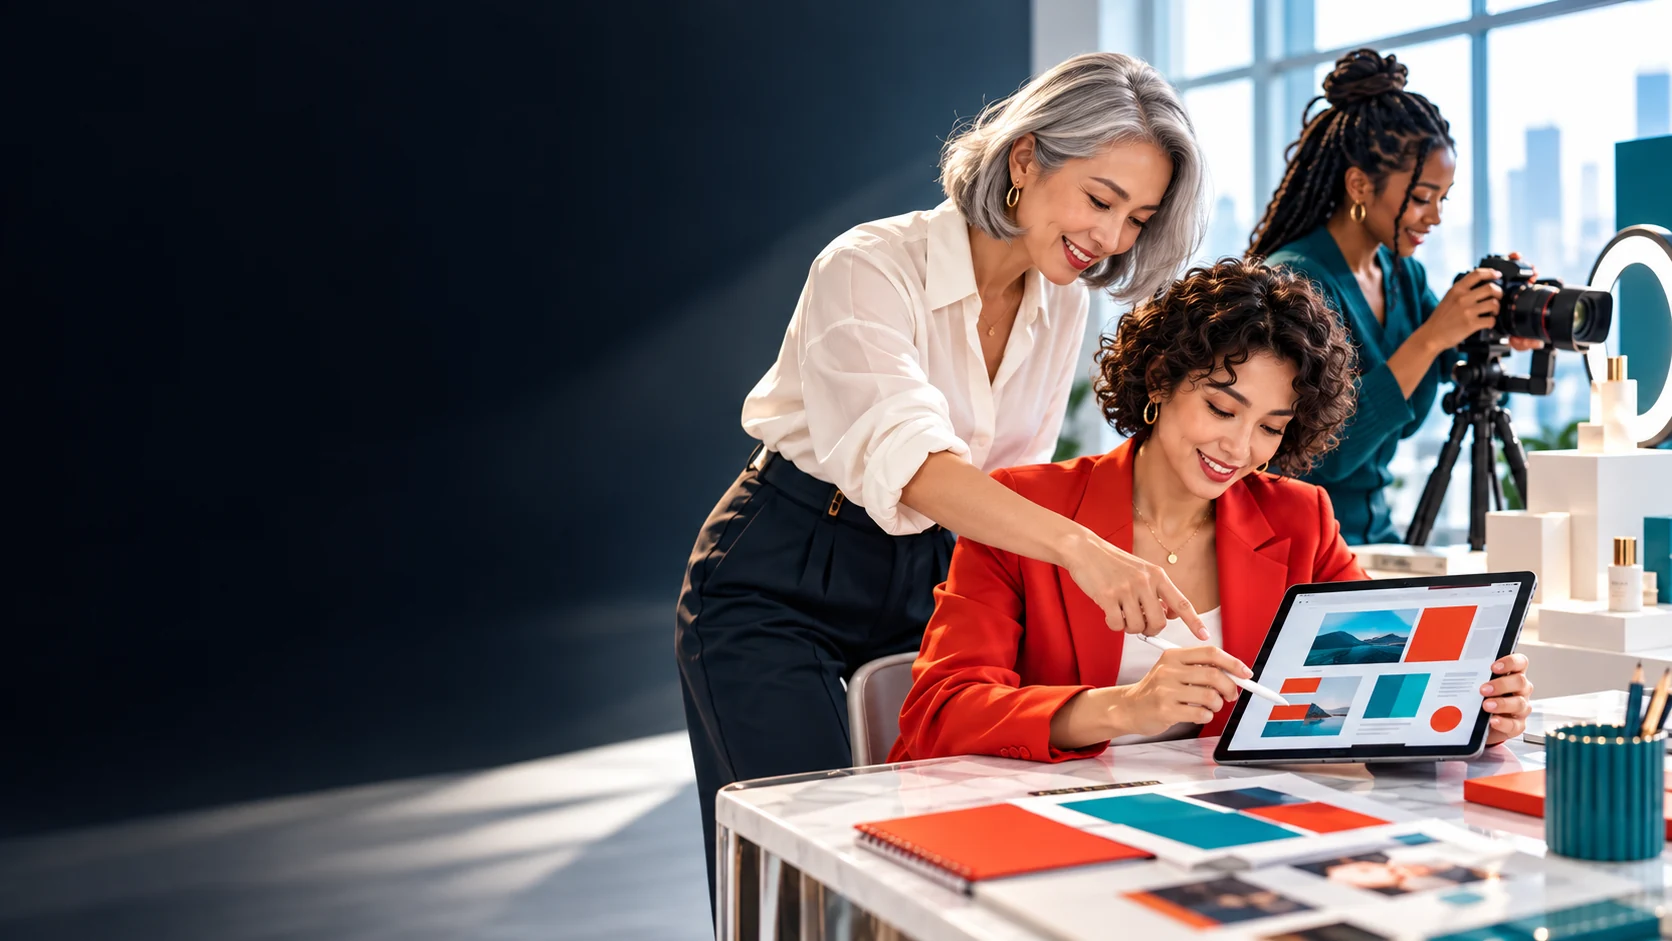
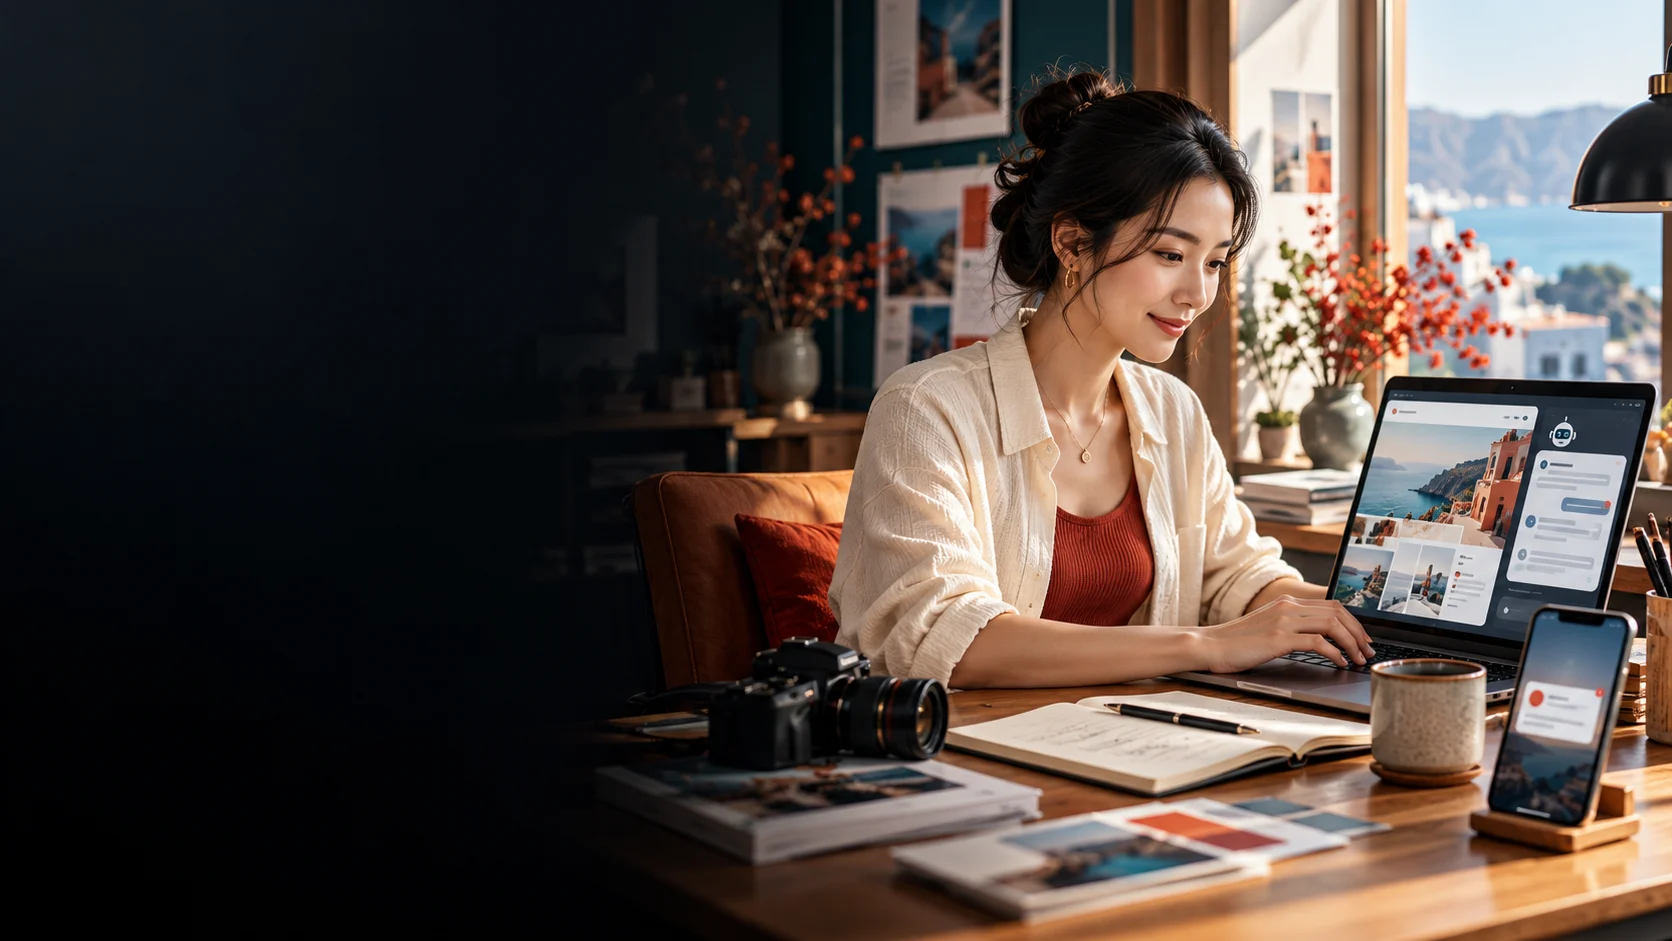
Show independent AI-assisted work in home hero

diff --git a/src/styles.css b/src/styles.css
@@ -375,7 +375,7 @@ svg { flex: none; }
 @media (max-width: 700px) { .pricing-admin-fields { grid-template-columns: 1fr; } }
 
 /* Editorial landing experience */
-.hero-section { position: relative; min-height: 710px; display: flex; align-items: stretch; padding: 0; overflow: hidden; background: var(--white) url('/images/luxkey-hero.webp') 61% center / cover no-repeat; color: var(--ink); }
+.hero-section { position: relative; min-height: 710px; display: flex; align-items: stretch; padding: 0; overflow: hidden; background: var(--ink) 61% center / cover no-repeat; color: var(--ink); }
 .hero-section::before { content: ''; position: absolute; inset: 0; background: linear-gradient(90deg, rgba(255,255,255,.96) 0%, rgba(255,255,255,.82) 30%, rgba(255,255,255,0) 68%); }
 .hero-grid { position: relative; z-index: 1; width: min(100% - 64px, 1200px); min-height: 710px; display: flex; flex-direction: column; align-items: stretch; justify-content: space-between; gap: 0; padding: 113px 0 34px; }
 .hero-copy { padding: 0; max-width: 670px; }

diff --git a/src/App.tsx b/src/App.tsx
@@ -172,7 +172,6 @@ function Home({ prices }: { prices: CoursePrices }) {
         <p className="hero-promise">用 AI 槓桿一人公司，通往時間與財富的極致自由。</p>
         <div className="hero-actions"><button type="button" className="btn btn-primary" onClick={() => document.getElementById('find-path')?.scrollIntoView({ behavior: 'smooth' })}>找到適合我的課 <ArrowUpRight size={19} /></button></div>
       </div>
-      <div className="hero-image-caption"><span>從一門課，開始你的第一份作品</span><span>課程情境示意</span></div>
     </div></section>
 
     <section className="principles"><div className="container principles-grid">
